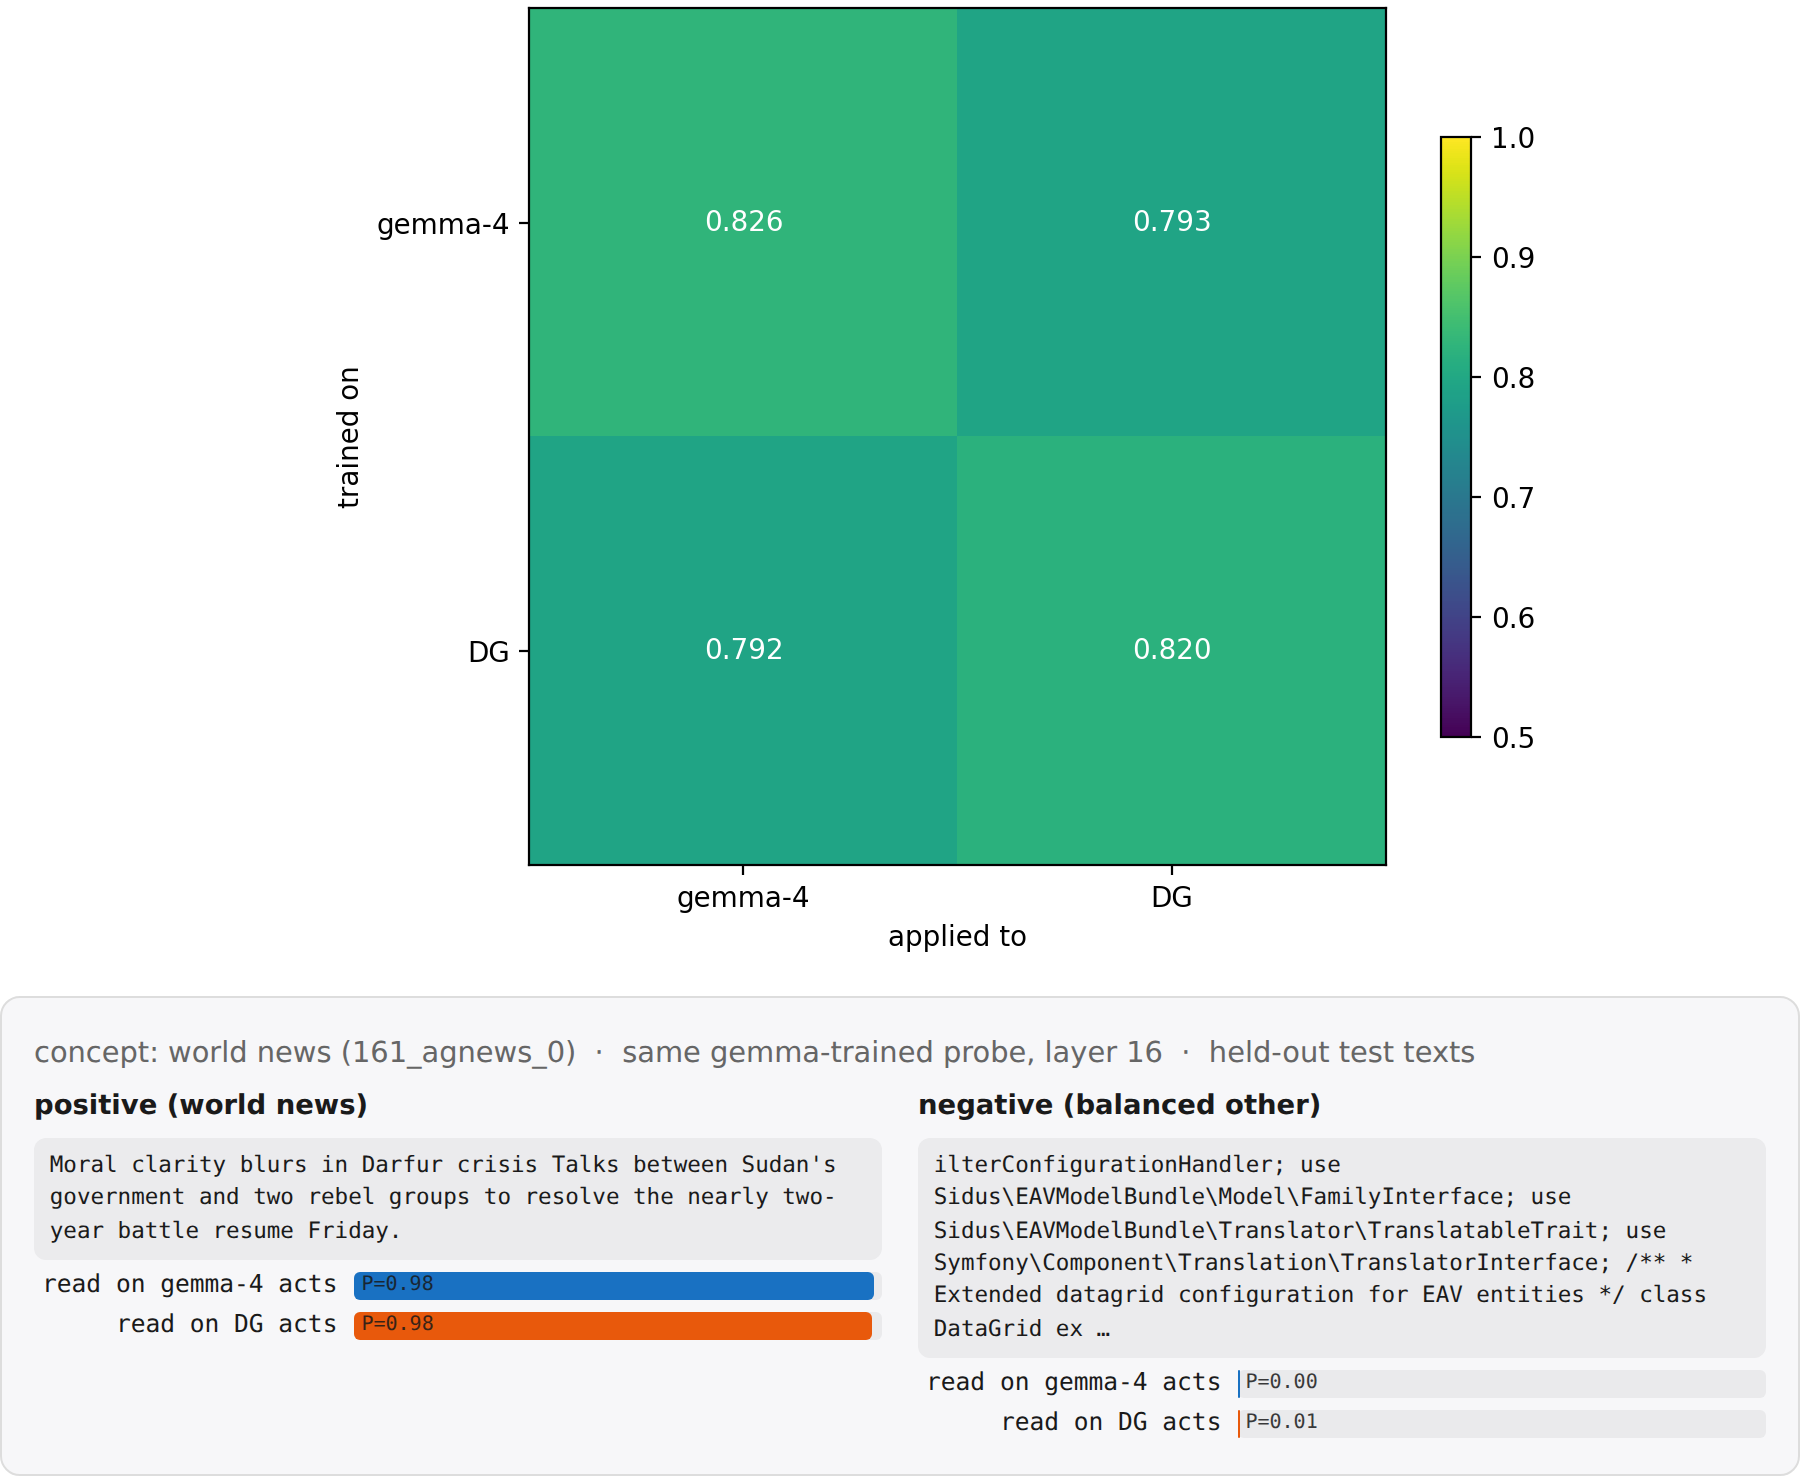
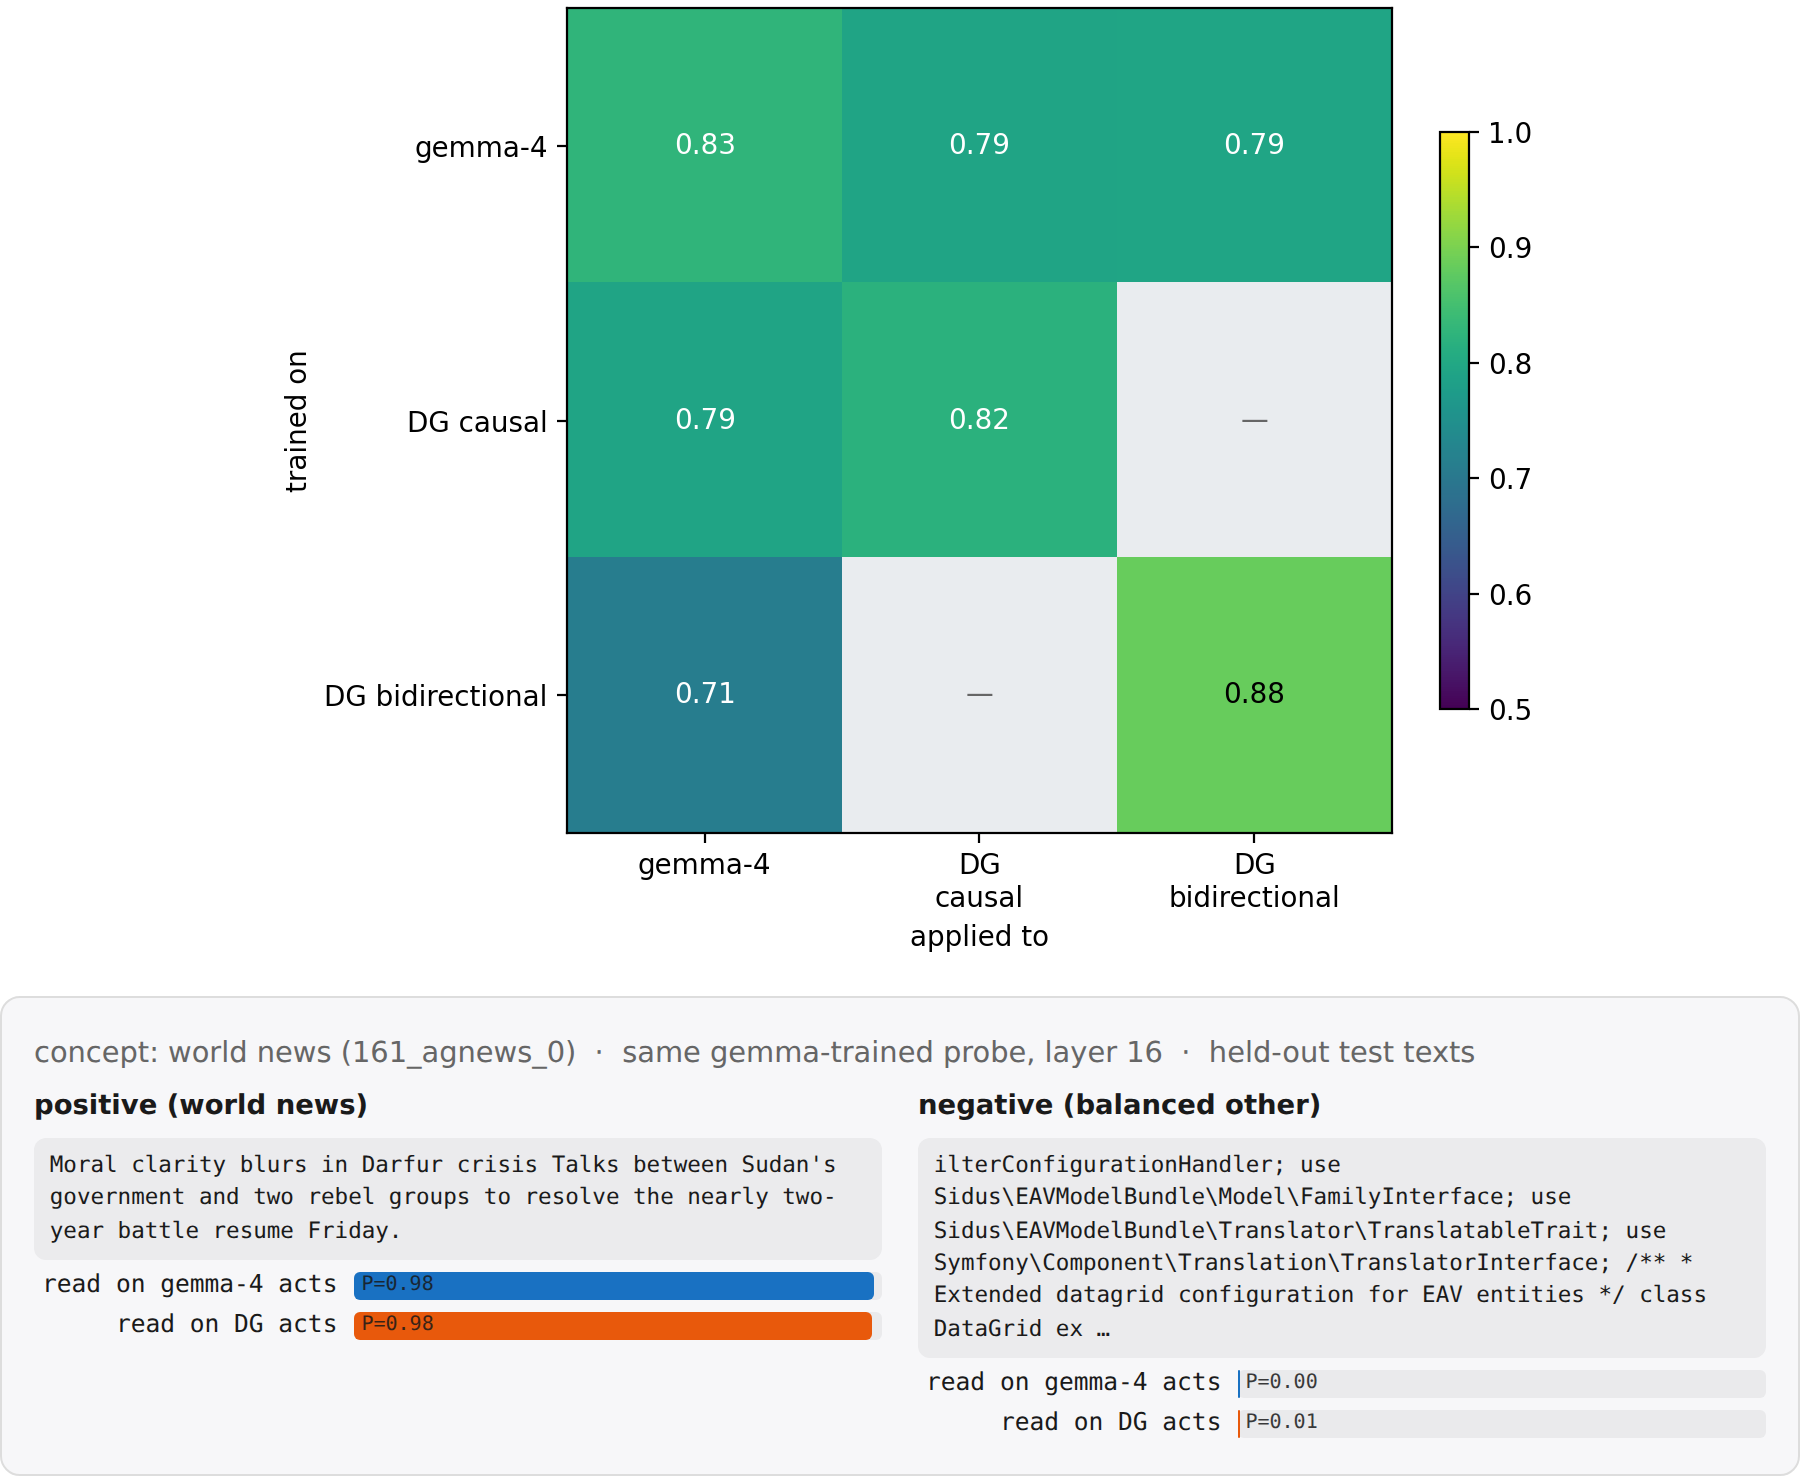
Merge mode-split matrix into the probe-retention figure; matrix scores as .2f
Claude-Session: https://claude.ai/code/session_01U8CiyQ7ySpBDkYEq4FzNBU

diff --git a/post.html b/post.html
@@ -113,11 +113,9 @@ $$</p>
 <h3>Probe retention</h3>
 <p>Probing allows to study how well a model separates concepts. We use 56 binary concept datasets from the SAE-Probes benchmark (<a href="https://arxiv.org/abs/2502.16681">Kantamneni et al., 2025</a>) and train logistic-regression probes on gemma-4's residual stream (1024 training examples per concept), optimizing the layer via heldout AUC. We then test this probe on DG.</p>
 <figure><img src="figs/figA2_probe_retention.png" alt="Probe retention"></figure>
-<p><em>Probes largely transfer from Gemma to DiffusionGemma.</em></p>
+<p><em>Probes largely transfer from Gemma to DiffusionGemma (DG split by attention mode; last-position read everywhere; grey = causal ↔ bidirectional cross-cells not measured).</em></p>
 <p>#### DiffusionGemma's representation is more linearly separable</p>
-<p>[stub:] The DG cells above read DG in its <em>causal</em> mode, matching the convention the gemma probes were fit under. Splitting DG's modes changes the picture: read bidirectionally — DG's native generation mode — its representation is <em>more</em> linearly separable than gemma-4's (self-AUC 0.884 vs 0.826, and 0.895 with a mean-pooled read). The gain is attention-mode driven, not a weight effect: swapping gemma-4 → DG weights at a fixed causal read costs −0.006 AUC, while switching DG causal → bidirectional at the same last-position read adds +0.065.</p>
-<figure><img src="figs/figA2b_probe_modes.png" alt="Probe transfer with DG modes split"></figure>
-<p><em>The probe-transfer matrix with DG's modes split (last-position read everywhere). DG bidirectional is the most separable stream but transfers worst back to gemma-4 (0.712); causal ↔ bidirectional cross-cells were not measured (grey).</em></p>
+<p>[stub:] Read bidirectionally — DG's native generation mode — DG's representation is <em>more</em> linearly separable than gemma-4's (self-AUC 0.88 vs 0.83, rising to 0.90 with a mean-pooled read), while in the causal mode matching the gemma probes it is not (0.82). The gain is attention-mode driven, not a weight effect: swapping gemma-4 → DG weights at a fixed causal read costs −0.01 AUC, while switching DG causal → bidirectional at the same last-position read adds +0.07. It is also asymmetric: the bidirectional stream transfers worst back to gemma-4 (0.71).</p>
 <h3>Steering retention</h3>
 <figure><img src="figs/figA3_steer_retention.png" alt="Steering retention"></figure>
 <p><em>Top: blind-pair judge accuracy (judge must identify +steer vs −steer), 11 RepE tasks — every cell steers (0.70–0.85); bidirectional-mode directions are the weakest sources. Bottom: the same gemma-fit happiness direction applied to gemma-4 and DiffusionGemma side by side (±steer on one carrier); judge digests in italics.</em></p>

diff --git a/scripts/figA2_probe.py b/scripts/figA2_probe.py
@@ -1,7 +1,10 @@
-"""A2: probe retention — 2x2 transfer AUC (trained-on x applied-to) + illustrating example pair.
+"""A2: probe retention — 3x3 transfer AUC with DG's modes split + illustrating example pair.
 
-Left:  mean held-out AUC over 56 concepts, source-CV-selected layer (probe_matrix.json headline).
-Right: one positive + one negative held-out text for 161_agnews_0 (world news), scored by the
+Top:   mean held-out AUC over 56 concepts, source-CV-selected layer; rows/cols gemma-4 /
+       DG causal / DG bidirectional, last-position read everywhere (probe_matrix.json modes:
+       headline = DG causal, declast = DG bidirectional; causal<->bidirectional cross cells
+       were not measured -> masked grey).
+Below: one positive + one negative held-out text for 161_agnews_0 (world news), scored by the
        gemma-trained probe reading gemma activations vs the SAME probe reading DG activations
        (probe_example_scores.json, cell gd).
 """
@@ -16,9 +19,13 @@ OUT = Path("/workspace-vast/jbauer/dg_blog/figs")
 SP = Path("/workspace-vast/jbauer/activation_oracles_dev/concept_probes/out/saeprobes")
 
 pm = json.load(open(SP / "probe_matrix.json"))
-h = pm["concept_auc"]["headline"]
-M = np.array([[np.mean([r["auc"] for r in h["gg"]]), np.mean([r["auc"] for r in h["gd"]])],
-              [np.mean([r["auc"] for r in h["dg"]]), np.mean([r["auc"] for r in h["dd"]])]])
+mean = lambda mode, cell: float(np.mean([r["auc"] for r in pm["concept_auc"][mode][cell]]))
+M = np.ma.masked_invalid([
+    [mean("headline", "gg"), mean("headline", "gd"), mean("declast", "gd")],
+    [mean("headline", "dg"), mean("headline", "dd"), np.nan],
+    [mean("declast", "dg"),  np.nan,                 mean("declast", "dd")],
+])
+LABS = ["gemma-4", "DG causal", "DG bidirectional"]
 
 pe = json.load(open(SP / "probe_example_scores.json"))
 TAG = "161_agnews_0"
@@ -32,13 +39,15 @@ print("pos:", x[ip], ysc[ip], r["texts"][ip])
 print("neg:", x[im], ysc[im], r["texts"][im][:160])
 
 fig, axL = plt.subplots(layout="constrained")
-im_ = axL.imshow(M, cmap="viridis", vmin=0.5, vmax=1.0, aspect="auto")
+cmap = plt.get_cmap("viridis").copy()
+cmap.set_bad("#e9ecef")
+im_ = axL.imshow(M, cmap=cmap, vmin=0.5, vmax=1.0, aspect="auto")
 axL.set_box_aspect(1)
 for (i, j), v in np.ndenumerate(M):
-    axL.text(j, i, f"{v:.3f}", ha="center", va="center",
-             color="white" if v < 0.85 else "black")
-axL.set_xticks([0, 1], ["gemma-4", "DG"])
-axL.set_yticks([0, 1], ["gemma-4", "DG"])
+    axL.text(j, i, "—" if M.mask[i, j] else f"{v:.2f}", ha="center", va="center",
+             color="0.4" if M.mask[i, j] else ("white" if v < 0.85 else "black"))
+axL.set_xticks(range(3), [l.replace(" ", "\n") for l in LABS])
+axL.set_yticks(range(3), LABS)
 axL.set_xlabel("applied to")
 axL.set_ylabel("trained on")
 fig.colorbar(im_, ax=axL, shrink=0.7)

diff --git a/post.md b/post.md
@@ -102,15 +102,11 @@ Probing allows to study how well a model separates concepts. We use 56 binary co
 
 ![Probe retention](figs/figA2_probe_retention.png)
 
-*Probes largely transfer from Gemma to DiffusionGemma.*
+*Probes largely transfer from Gemma to DiffusionGemma (DG split by attention mode; last-position read everywhere; grey = causal ↔ bidirectional cross-cells not measured).*
 
 #### DiffusionGemma's representation is more linearly separable
 
-[stub:] The DG cells above read DG in its *causal* mode, matching the convention the gemma probes were fit under. Splitting DG's modes changes the picture: read bidirectionally — DG's native generation mode — its representation is *more* linearly separable than gemma-4's (self-AUC 0.884 vs 0.826, and 0.895 with a mean-pooled read). The gain is attention-mode driven, not a weight effect: swapping gemma-4 → DG weights at a fixed causal read costs −0.006 AUC, while switching DG causal → bidirectional at the same last-position read adds +0.065.
-
-![Probe transfer with DG modes split](figs/figA2b_probe_modes.png)
-
-*The probe-transfer matrix with DG's modes split (last-position read everywhere). DG bidirectional is the most separable stream but transfers worst back to gemma-4 (0.712); causal ↔ bidirectional cross-cells were not measured (grey).*
+[stub:] Read bidirectionally — DG's native generation mode — DG's representation is *more* linearly separable than gemma-4's (self-AUC 0.88 vs 0.83, rising to 0.90 with a mean-pooled read), while in the causal mode matching the gemma probes it is not (0.82). The gain is attention-mode driven, not a weight effect: swapping gemma-4 → DG weights at a fixed causal read costs −0.01 AUC, while switching DG causal → bidirectional at the same last-position read adds +0.07. It is also asymmetric: the bidirectional stream transfers worst back to gemma-4 (0.71).
 
 ### Steering retention
 

diff --git a/AGENTS.md b/AGENTS.md
@@ -46,10 +46,9 @@ Python: `/var/tmp/jbauer/venvs/loracles/bin/python` (has matplotlib/numpy/scipy/
   target models side by side), `data/jlens_layers.json` (carnival-ocean top-5/layer for both
   read streams, from `jlens/eval_2x2.json` examples). Source data:
   `activation_oracles_dev/concept_probes/out/saeprobes/`.
-- `scripts/figA2b_probe_modes.py` — 3×3 probe matrix with DG's modes split (probe_matrix.json
-  modes: `headline` = DG causal, `declast` = DG bidirectional last-token; `decmean` only cited
-  in the caption). causal↔bidirectional cross-cells don't exist in the data → masked grey.
-  Standalone figure (no card composition) → `figs/figA2b_probe_modes.png`.
+  The A2 matrix is the 3×3 mode-split (probe_matrix.json modes: `headline` = DG causal,
+  `declast` = DG bidirectional last-token; `decmean` only cited in prose). causal↔bidirectional
+  cross-cells don't exist in the data → masked grey. Matrix scores annotated `:.2f` everywhere.
 - `scripts/figA5_ember.py` — seasonal-vs-idiom ember-kill: 4 stacked trajectory panels + outcome
   matshow from `diffusiongemma/exp/dg_planning/ember_kill.json` → `figs/figA5_seasonal_ember_kill.png`.
 
